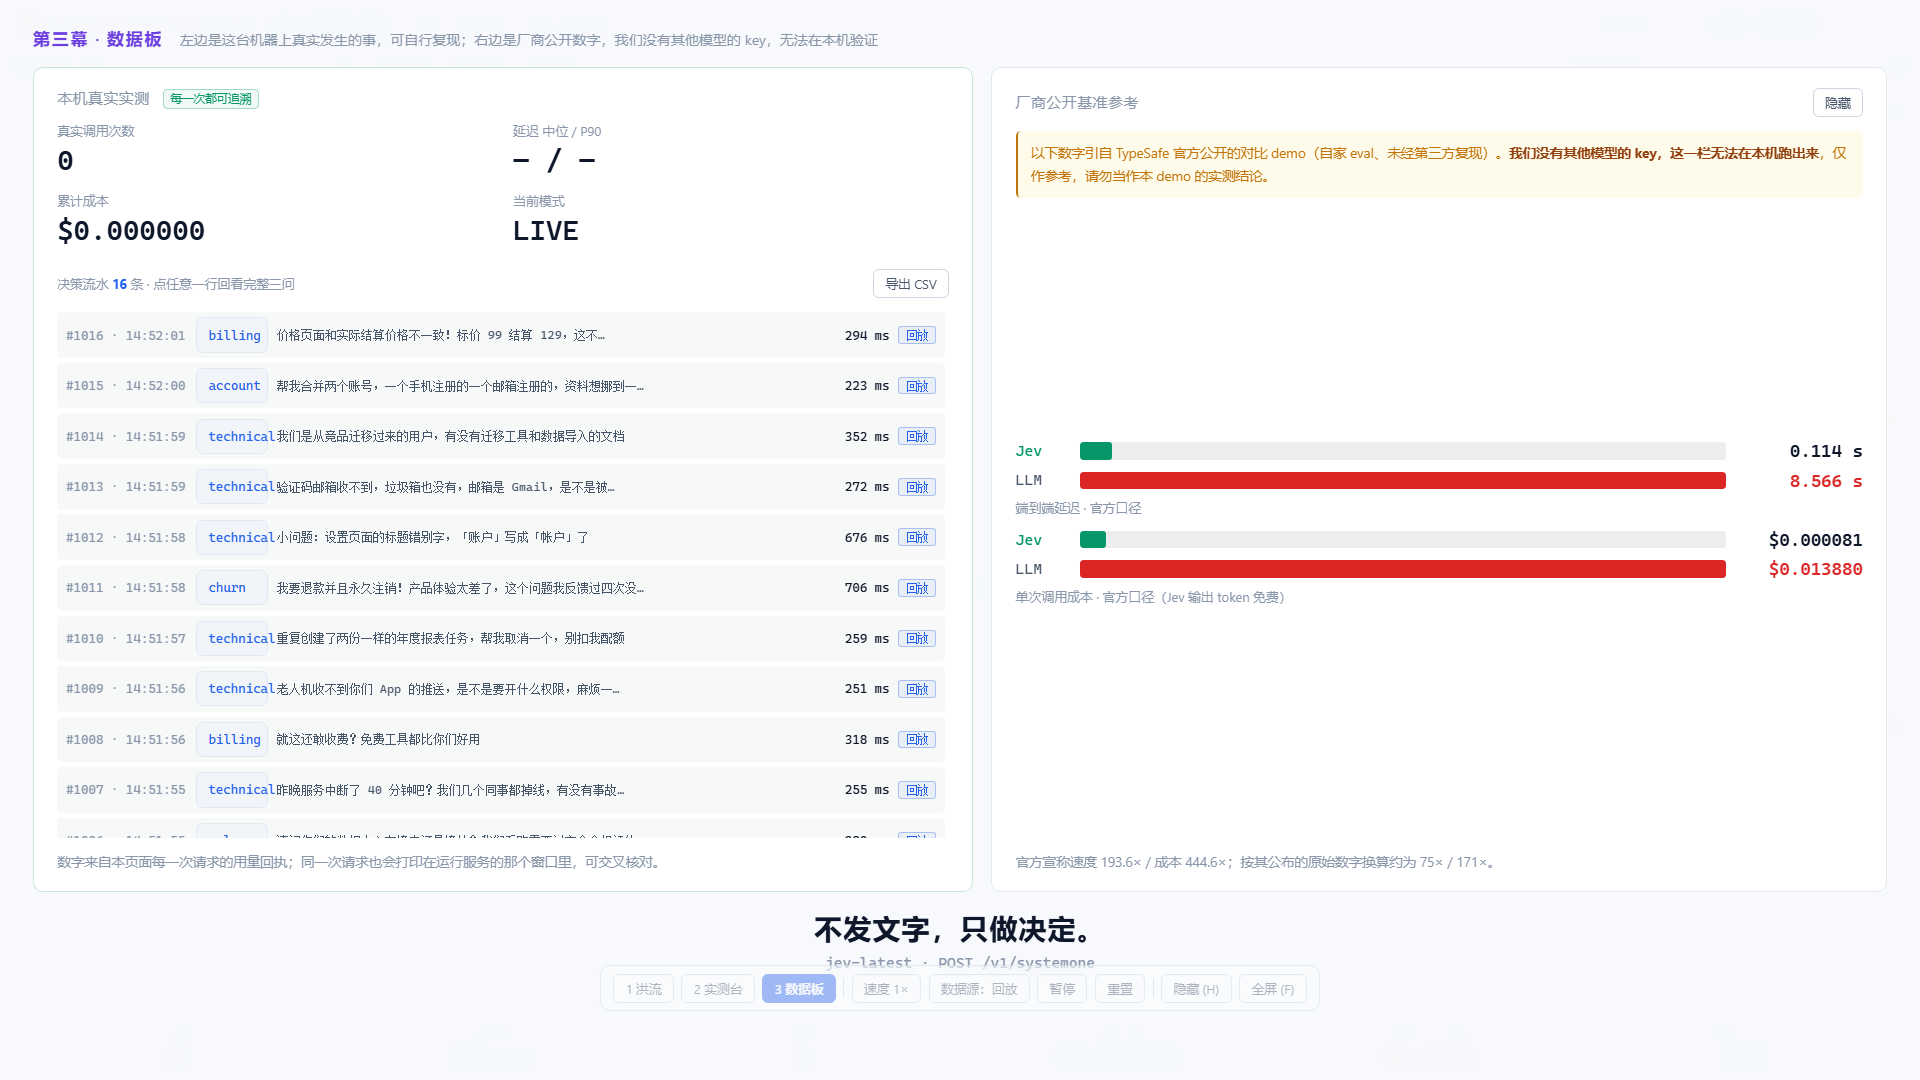
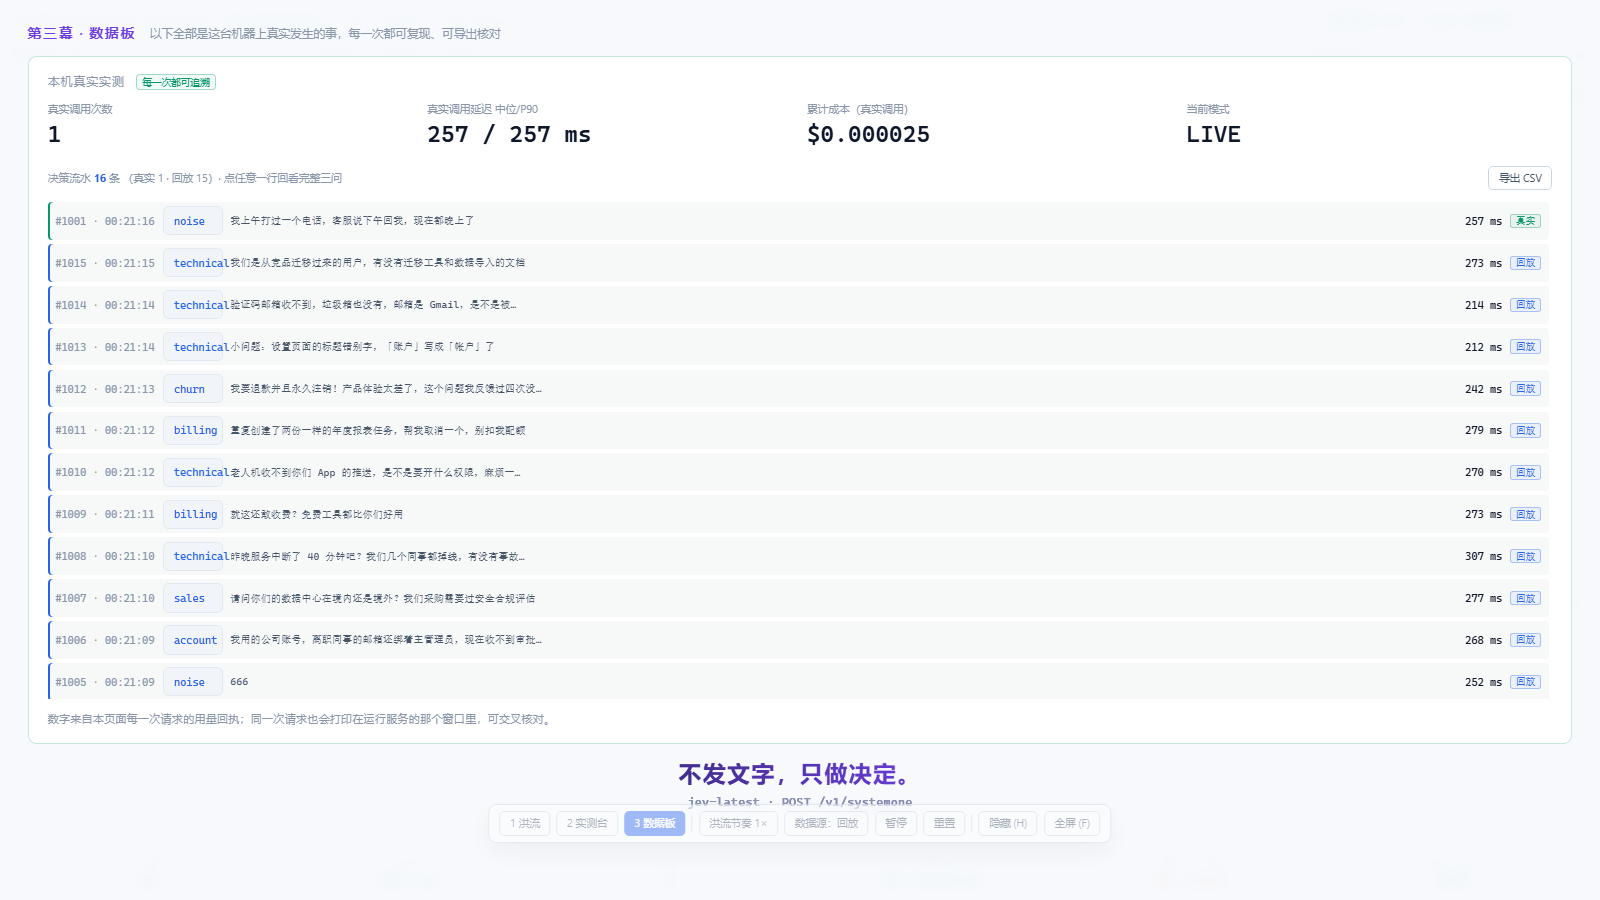
Add the live URL and current screenshots to the README.
Shots are taken from the deployed site so the repository front page matches what visitors see.

diff --git a/README.md b/README.md
@@ -4,6 +4,29 @@
 
 **一句话概念**：所有 AI 都在写字，只有它在做决定。
 
+**线上直接看**：[https://jev-demo.pages.dev](https://jev-demo.pages.dev)
+
+下面四张是线上实拍。
+
+<p align="center">
+  <img src="shots/standby.png" alt="开场页" width="860">
+</p>
+
+<p align="center">
+  <img src="shots/flood.png" alt="第一幕 · 洪流" width="860"><br>
+  <sub>第一幕 · 洪流：事件持续涌入，一次调用并行回答三个问题，按置信度分流</sub>
+</p>
+
+<p align="center">
+  <img src="shots/slowmo.png" alt="第二幕 · 实测台" width="860"><br>
+  <sub>第二幕 · 实测台：粘贴一条真实工单，当场调用，171ms 给出判定</sub>
+</p>
+
+<p align="center">
+  <img src="shots/board.png" alt="第三幕 · 数据板" width="860"><br>
+  <sub>第三幕 · 数据板：真实调用次数、延迟、成本，以及可回看的决策流水</sub>
+</p>
+
 ---
 
 ## 跑起来 & 访问
